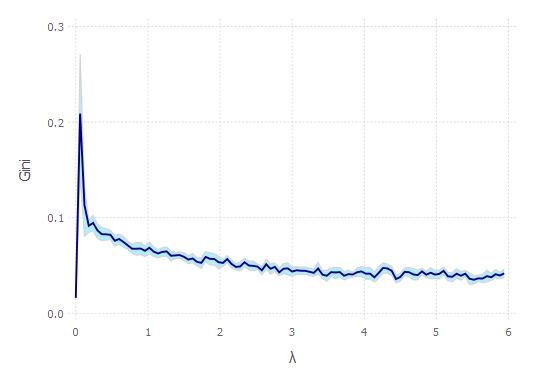
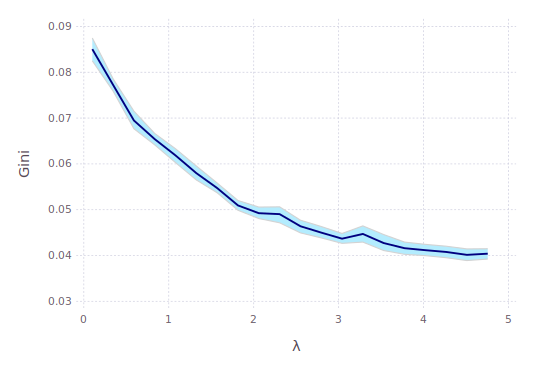
Upgrade figure 4 to 500 agents.

diff --git a/manuscript/analysis.tex b/manuscript/analysis.tex
@@ -12,8 +12,9 @@ of stage 3} (before starvation) versus $\lambda$, and confirms that...
 \centering
 \includegraphics[width=\columnwidth]{figures/giniVsLambda.png}
 \caption{The average Gini coefficient, computed before the onset of starvation,
-for various values of the ER $\lambda$ connectivity parameter. The color band
-represents a bootstrapped 95\% confidence interval.}
+for various values of the ER $\lambda$ connectivity parameter. 500 agents were
+used in each simulation. The color band represents a bootstrapped 95\% confidence
+interval.}
 \label{fig:giniVsLambda}
 \end{figure}
 
